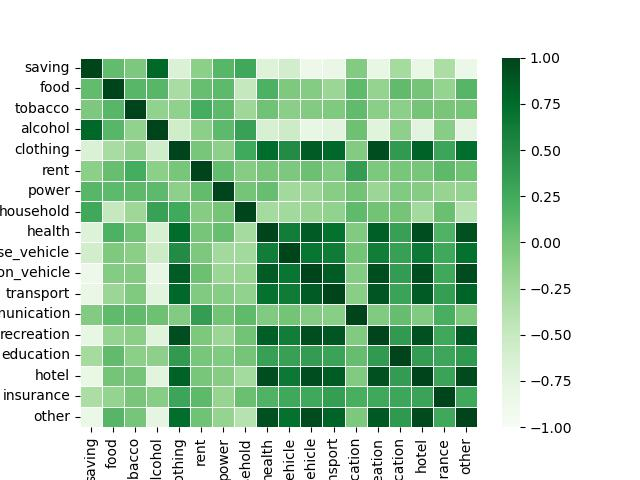
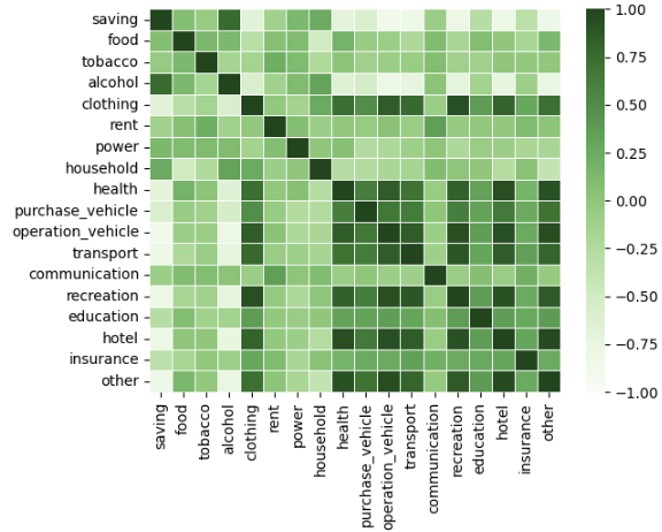
Update Readme

diff --git a/README.md b/README.md
@@ -1,1 +1,84 @@
-# FTBC_project_1
+# Australian Household Consumption and Expenditure Pattern: A study from 2012 - 2022
+Presented by Emma H, Kit N, Md Muhasenul H <br> *7 November 2022*
+ 
+
+## Introduction
+This study seeks to uncover the Australian Household consumption and expenditure pattern. Specifically, we examine:
+* Where do Australian spend their money?
+* How has the consumption pattern changed over the period from January 2012 to June 2022?
+* Is there any relationship between key economic indicators such as unemployment rate and household saving ratio and household consumption pattern?
+* Is there any relationshp between ASX 200 price movements and household consumption pattern? <br>
+
+We also explore if there is any possbile Covid pandemic stimulated changes in consumption pattern. Care should be taken when interpreting the time series analysis results. 
+
+
+## Data Used
+The following data has been used in the study:
+* Australian household final consumption and expenditure quarterly seasonally adjusted chain volume measures published by the Australian Bureau of Statistics (ABS)
+* Australia monthly seaosonally adjusted unemployment rate published by the ABS
+* Australia quarterly seasonally adjusted household saving ratio published by the ABS
+* Australia Stock Market Index data collected using the Yahoo Finance API.
+
+
+### Data Cleaning and Exploration
+#### Household consumption and expenditure data
+
+TBC - Emma to add
+
+#### Economic Data
+* To explore economic data based on info published in ABS and cash interest rate from RBA, mainly using panda's read_csv method for consistency.
+* We first examine the quality for each our subject datasets by checking if there is missing value or null value, using the ".isnull.sum()" and ".info" method, the result is none, so we conclude the dataset is clean and ready for use.
+* After reading the dataset into dataframe, basic statistic is run in order to see how the numbers are distributed, by method of ".describe", ".max" , "idxmax" and the vice versa 'min', and 'idxmin'.
+* Apart from plotting the daily available data in line chart to its pattern to surface, we also use the method of "pct_change()" in order to see the velocity of the change.
+* We also explore the means of each year of the unemployment rate used the combination of .groupby(df.index.year).mean(), and found no significant outlier for each states in the past ten years, we observed that the states of TAS and SA often has the highest unemployment rate, whereas ACT has the lowest unemployment.
+
+
+### Key observations and findings
+#### Where do Australian spend their money?
+
+![](./Diagram/spending_by_cat.jpg)
+
+
+#### How has the consumption pattern changed over time?
+![](./Diagram/spendingtrend.jpg)
+
+* There is year on year increase in household consumption and expenditure from 2012 - 2018.
+* The increase in household spending seem to be plateauing between 2018 and 2019.
+* As the Covid pandemic hits (late Q1 2020), we observe a significant drop in the household expenditure. This could primarily attributable to the mandatory lockdown and travel restrictions imposed across all states. 
+
+
+2. We have discovered that the spending of people has pretty much remained same expect some significant canges in the areas of a. telecommunicaiton, b. tobacco consumtion and c. transportation 
+
+#### Relationship between unemployment and household consumption
+<img src="./Diagram/unemploy_corr.jpg" width="400">
+
+3. Unemployement is negetively correlated with the changes in spending in clothing (0.547129) and transport (0.580948) recretion (0.555207). There is a slightly positive correlation with alcohol (0.325923). 
+
+#### Relationship between household saving and household consumption
+<img src="./Diagram/saving_corr.jpg" width="400">
+
+4. Saving is positively correlated with alcohol spending (0.766694) and negatively correlated with operation_vehicle (0.873177, recreation 0.791215, hotel 0.799859. 
+
+
+
+
+### Possible use of Data 
+Looking at the changes in data we can come up with a possible assumption that people are travelling less due to work from home arrangement. 
+
+Spending in telecommunicaiton has increased due to advance work from home set up is causing people to spend more on telecoomunication for connectivity from home. 
+
+Pople are more health concern since there is a significant drop in tobaco consumption and additional spending on health. 
+
+If any business wants to invest their money they can work on investing in telecommunication, health related products. 
+
+Car importers may need to think differently for introducing vehicles supporting recreation more than day to day transport. 
+
+
+### Future Development
+
+What are the ares of telecoomunication people are spending and whether there is any scope of fintech companies to play role in that areas. 
+
+### References
+
+https://pypi.org/project/yfinance/
+
